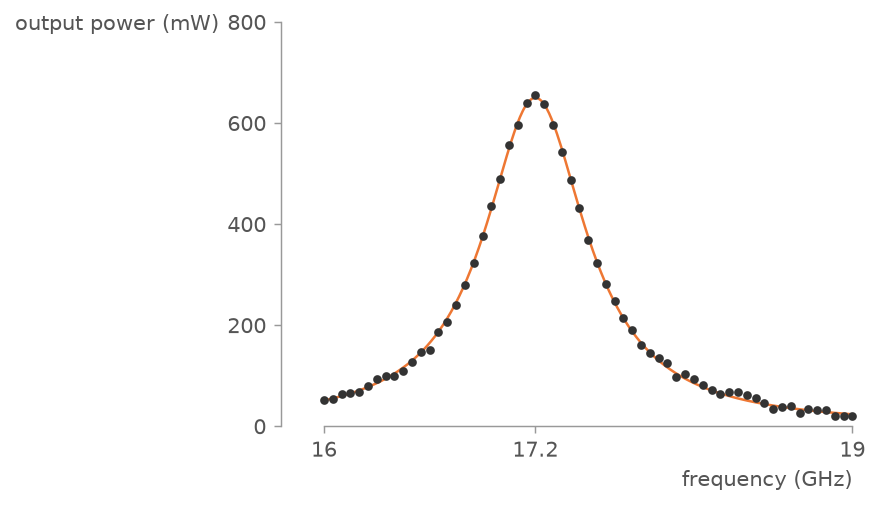
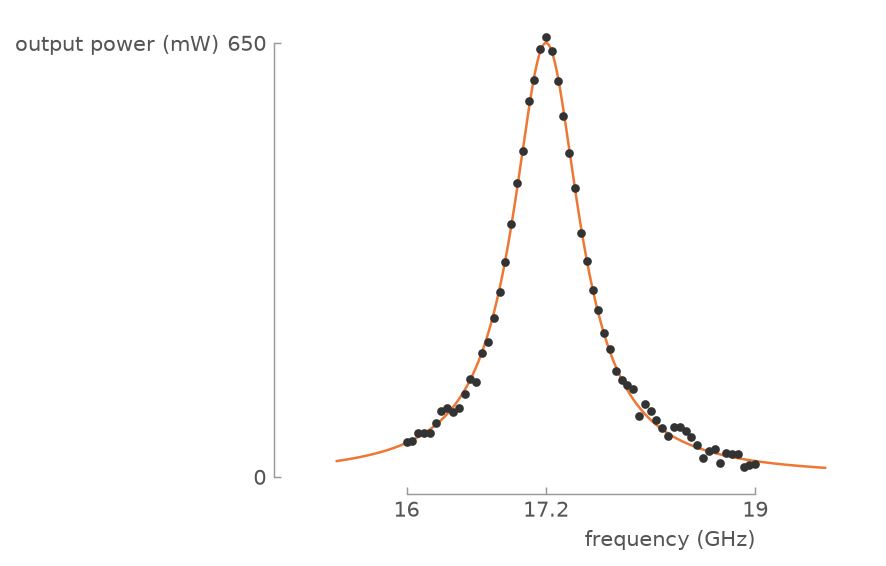
docs: match Doumont's resonance figure more closely
Spill the calculated curve past the 16-19 frame, mark the band edges
with fixed 16 and 19 constants beside the argmax peak, put the y-axis
on a 0 baseline to the 650 peak, float both axes off the data with a
loose offset, point the ticks inward, add jitter to the measured
points, and use a squarer aspect so the tails read at Doumont's
proportions.

Claude-Session: https://claude.ai/code/session_01CDqPgu8AcjrT7siKYivTWR

diff --git a/examples/gallery.py b/examples/gallery.py
@@ -147,35 +147,37 @@ def resonance_peak() -> None:
     """Render a resonance curve with its peak labelled by `FeatureLocator`.
 
     After Doumont's *Trees, maps and theorems*: the x ticks mark the
-    band's minimum and maximum and, between them, the peak's location
-    `x[argmax(y)]`, which is not the mean. The Lorentzian and its
-    sampled points are a construction, not measurements.
+    band edges, 16 and 19 GHz, and between them the peak's location
+    `x[argmax(y)]`, which is not the mean. The calculated curve spills
+    past the frame the way Doumont draws it, so the band edges are fixed
+    constants, not the data's extent. The Lorentzian and its sampled
+    points are a construction, not measurements.
     """
     rng = np.random.default_rng(0)
-    frequency = np.linspace(16, 19, 400)
+    frequency = np.linspace(15.4, 19.6, 500)
     sampled = np.linspace(16, 19, 61)
 
     def lorentzian(f: np.ndarray) -> np.ndarray:
         return 650 / (1 + ((f - 17.2) / 0.35) ** 2)
 
     calculated = lorentzian(frequency)
-    measured = lorentzian(sampled) + rng.normal(0, 6, sampled.size)
-    fig, ax = plt.subplots(figsize=(5, 3.5))
-    vzs.apply(ax, frame=("data", "loose"))
+    measured = lorentzian(sampled) + rng.normal(0, 10, sampled.size)
+    fig, ax = plt.subplots(figsize=(5, 4))
+    vzs.apply(ax, frame="loose")
     ax.plot(frequency, calculated, color="tol:orange", linewidth=1.2)
     ax.scatter(sampled, measured, s=10, color=vzs.palettes.DATA_INK, zorder=3)
+    # Output power has a true zero, so show the axis from the 0 baseline
+    # up past the measured peak that pokes above the calculated curve.
+    ax.set_ylim(0, measured.max() * 1.05)
     ax.xaxis.set_major_locator(
-        vzs.FeatureLocator(
-            sampled,
-            measured,
-            [
-                lambda x, y: x.min(),
-                lambda x, y: x[np.argmax(y)],
-                lambda x, y: x.max(),
-            ],
-        )
+        vzs.FeatureLocator(sampled, measured, [16, lambda x, y: x[np.argmax(y)], 19])
+    )
+    ax.yaxis.set_major_locator(
+        vzs.FeatureLocator(frequency, calculated, [0, lambda x, y: y.max()])
     )
     ax.xaxis.set_major_formatter("{x:g}")
+    ax.yaxis.set_major_formatter("{x:.0f}")
+    vzs.tick_direction(ax, "in")
     vzs.xlabel(ax, "frequency (GHz)")
     vzs.ylabel(ax, "output power (mW)", flush=True)
     fig.savefig(OUTPUT / "resonance_peak.png", dpi=150, bbox_inches="tight")

diff --git a/README.md b/README.md
@@ -106,15 +106,11 @@ The critical-power model for four rider archetypes on a log time axis. Toward th
 
 ![Four modelled power-duration curves on a log time axis, crossing near two minutes and labelled at their flat right ends](https://raw.githubusercontent.com/jpweytjens/vanzelfsprekend/main/docs/power_profiles.png)
 
-A resonance curve after Doumont, measured points over a calculated Lorentzian. `FeatureLocator` marks the band's edges and, between them, the one place the reader came to find. The edges are summaries of the x values, but the peak is a feature of the pair, `x[argmax(y)]`, so its tick lands at 17.2 GHz whether or not that is the mean:
+A resonance curve after Doumont, measured points over a calculated Lorentzian that spills past the frame. `FeatureLocator` marks the band edges and, between them, the one place the reader came to find. The edges are fixed numbers, but the peak is a feature of the pair, `x[argmax(y)]`, so its tick lands at 17.2 GHz whether or not that is the mean:
 
 ```python
 ax.xaxis.set_major_locator(
-    vzs.FeatureLocator(
-        x,
-        y,
-        [lambda x, y: x.min(), lambda x, y: x[np.argmax(y)], lambda x, y: x.max()],
-    )
+    vzs.FeatureLocator(x, y, [16, lambda x, y: x[np.argmax(y)], 19])
 )
 ```
 
